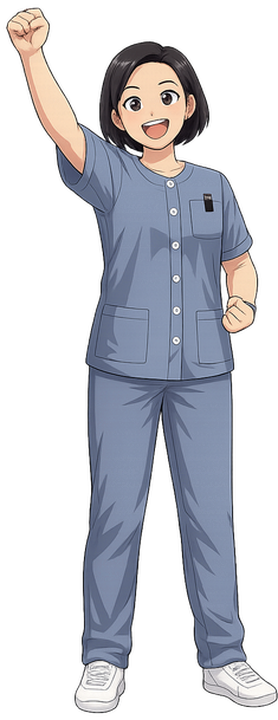
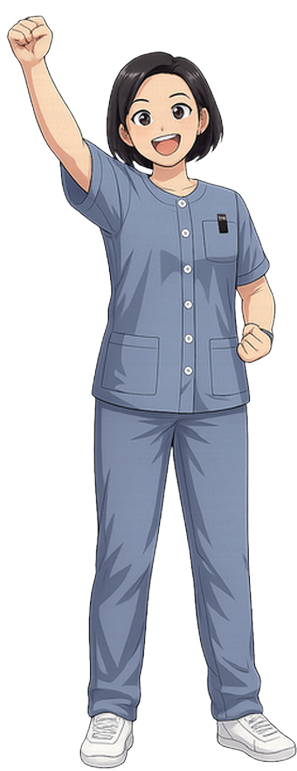
Deploy v109: equal-height result-screen cartoons, trial-mode layout

diff --git a/index.html b/index.html
@@ -679,15 +679,23 @@ html[lang^="en"] .game-stage.patient-simple-hud .action-main{
   width:100%; max-width:1080px; margin:auto; flex:0 0 auto;
 }
 .result-stage .result-card{ flex:1 1 auto; min-width:0; }
+/* Each cartoon sits in a slot stretched to the card height, so the figures are
+   never taller than the card (trial mode has no video panel and a short card)
+   and both share one 297x771 canvas with feet and head heights aligned. */
 .result-cheer{
-  flex:0 0 auto; width:clamp(96px, 15vw, 190px); height:auto; align-self:flex-end;
+  flex:0 0 auto; width:clamp(96px, 15vw, 190px); align-self:stretch; position:relative;
+  min-height:0; pointer-events:none; user-select:none; -webkit-user-select:none;
+}
+.result-cheer img{
+  position:absolute; left:0; right:0; top:0; bottom:0; width:100%; height:100%;
+  object-fit:contain; object-position:center bottom;
   filter:drop-shadow(0 4px 8px rgba(44,24,16,0.16));
-  pointer-events:none; user-select:none; -webkit-user-select:none;
 }
 .result-cheer[hidden]{ display:none; }
 @media (max-width:700px){
-  .result-stage{ flex-wrap:wrap; gap:8px 18px; }
-  .result-cheer{ order:-1; width:clamp(84px, 24vw, 130px); }
+  .result-stage{ flex-wrap:wrap; gap:8px 18px; align-items:flex-end; }
+  .result-cheer{ order:-1; width:clamp(84px, 24vw, 130px); align-self:flex-end; position:static; }
+  .result-cheer img{ position:static; width:100%; height:auto; }
   .result-stage .result-card{ flex-basis:100%; }
 }
 .result-card{
@@ -1770,8 +1778,8 @@ html[lang^="en"] .game-stage.patient-simple-hud .action-main{
     <div class="result-stage" id="resultStage">
       <!-- v108: two department therapist cartoons cheer the participant on
            (thumbs-up on the left, fist-pump on the right). Public flow only. -->
-      <img class="result-cheer result-cheer-like" id="resultCheerLike"
-        src="img/advanced/result_cheer_like.png" alt="治療師卡通豎起拇指稱讚" width="250" height="720" decoding="async" loading="lazy">
+      <div class="result-cheer result-cheer-like" id="resultCheerLikeSlot"><img id="resultCheerLike"
+        src="img/advanced/result_cheer_like.png" alt="治療師卡通豎起拇指稱讚" width="297" height="771" decoding="async" loading="lazy"></div>
     <div class="result-card">
       <h2 id="resultTitle">訓練完成</h2>
       <div id="resultContext" style="font-size:14px;font-weight:700;color:var(--muted);margin:-8px 0 4px;"></div>
@@ -1803,8 +1811,8 @@ html[lang^="en"] .game-stage.patient-simple-hud .action-main{
       <button class="btn-primary" id="btnRetry">再玩一次</button>
       <button class="btn-secondary" id="btnHome">返回主頁</button>
     </div>
-      <img class="result-cheer result-cheer-go" id="resultCheerGo"
-        src="img/advanced/result_cheer_go.png" alt="治療師卡通舉拳加油" width="278" height="720" decoding="async" loading="lazy">
+      <div class="result-cheer result-cheer-go" id="resultCheerGoSlot"><img id="resultCheerGo"
+        src="img/advanced/result_cheer_go.png" alt="治療師卡通舉拳加油" width="297" height="771" decoding="async" loading="lazy"></div>
     </div>
   </div>
 
@@ -8290,7 +8298,7 @@ html[lang^="en"] .game-stage.patient-simple-hud .action-main{
                         el.style.cssText = 'position:fixed;left:8px;bottom:8px;z-index:99998;pointer-events:none;background:rgba(10,20,18,.82);color:#e8fff6;font:12px/1.4 -apple-system,"PingFang TC",sans-serif;padding:6px 9px;border-radius:10px;white-space:pre;', 
                         document.body.appendChild(el), framePerf.overlayEl = el);
                         const p = framePerfSnapshot();
-                        el.textContent = `perf v108  ${p.fps} fps  幀 ${p.frameMs} ms\n追蹤 ${p.trackMs} ms  繪圖 ${p.renderMs} ms  長幀 ${p.longFrames}\n鏡頭 ${p.video[0]}×${p.video[1]}  畫布 ${p.canvas[0]}×${p.canvas[1]}  dpr ${p.dpr}  手模型 ${p.handDelegate || "-"}\n手 ${p.hand.hands} 隻  標籤 ${p.hand.label || "-"} ${p.hand.score}  接納 ${p.hand.path || "-"}  嚴格 ${p.hand.strict} 連續 ${p.hand.continuity} 單手 ${p.hand.lone} 拒絕 ${p.hand.rejected}\n左右手檢查 ${"off" === p.hand.check ? "關" : "開"}  鎖定手形 ${p.hand.lockSize || "-"}  大小拒絕 ${p.hand.sizeRejected}  遠處拒絕 ${p.hand.farRejected}` + (p.tool ? `\n衣夾 近指 ${p.tool.near} 放手≥${p.tool.nearExit} 張開≥${p.tool.nearOpen}  遠指 ${p.tool.far} 放手≥${p.tool.farExit} 張開≥${p.tool.farOpen}  門檻 ${p.tool.source}` : ""), 
+                        el.textContent = `perf v109  ${p.fps} fps  幀 ${p.frameMs} ms\n追蹤 ${p.trackMs} ms  繪圖 ${p.renderMs} ms  長幀 ${p.longFrames}\n鏡頭 ${p.video[0]}×${p.video[1]}  畫布 ${p.canvas[0]}×${p.canvas[1]}  dpr ${p.dpr}  手模型 ${p.handDelegate || "-"}\n手 ${p.hand.hands} 隻  標籤 ${p.hand.label || "-"} ${p.hand.score}  接納 ${p.hand.path || "-"}  嚴格 ${p.hand.strict} 連續 ${p.hand.continuity} 單手 ${p.hand.lone} 拒絕 ${p.hand.rejected}\n左右手檢查 ${"off" === p.hand.check ? "關" : "開"}  鎖定手形 ${p.hand.lockSize || "-"}  大小拒絕 ${p.hand.sizeRejected}  遠處拒絕 ${p.hand.farRejected}` + (p.tool ? `\n衣夾 近指 ${p.tool.near} 放手≥${p.tool.nearExit} 張開≥${p.tool.nearOpen}  遠指 ${p.tool.far} 放手≥${p.tool.farExit} 張開≥${p.tool.farOpen}  門檻 ${p.tool.source}` : ""), 
                         el.style.display = state.running ? "block" : "none";
                     }(perfT2);
                 } catch (e) {
@@ -11191,7 +11199,7 @@ html[lang^="en"] .game-stage.patient-simple-hud .action-main{
 <script src="level4-three-games-module.js"></script>
 <script>
 if ("serviceWorker" in navigator && (location.protocol === "https:" || location.hostname === "localhost" || location.hostname === "127.0.0.1")) {
-  const LEVEL_APP_BUILD = "v108-20260907-peg-release-cheer-cartoons";
+  const LEVEL_APP_BUILD = "v109-20260907-cheer-cartoon-equal-height";
   const levelAppHadController = Boolean(navigator.serviceWorker.controller);
   let levelAppReloading = false;
 

diff --git a/service-worker.js b/service-worker.js
@@ -1,4 +1,4 @@
-const CACHE_VERSION = "fthue-rehab-v108-20260907-peg-release-cheer-cartoons";
+const CACHE_VERSION = "fthue-rehab-v109-20260907-cheer-cartoon-equal-height";
 const OFFLINE_PAGE = "./offline.html";
 
 importScripts("./offline-assets.js");
